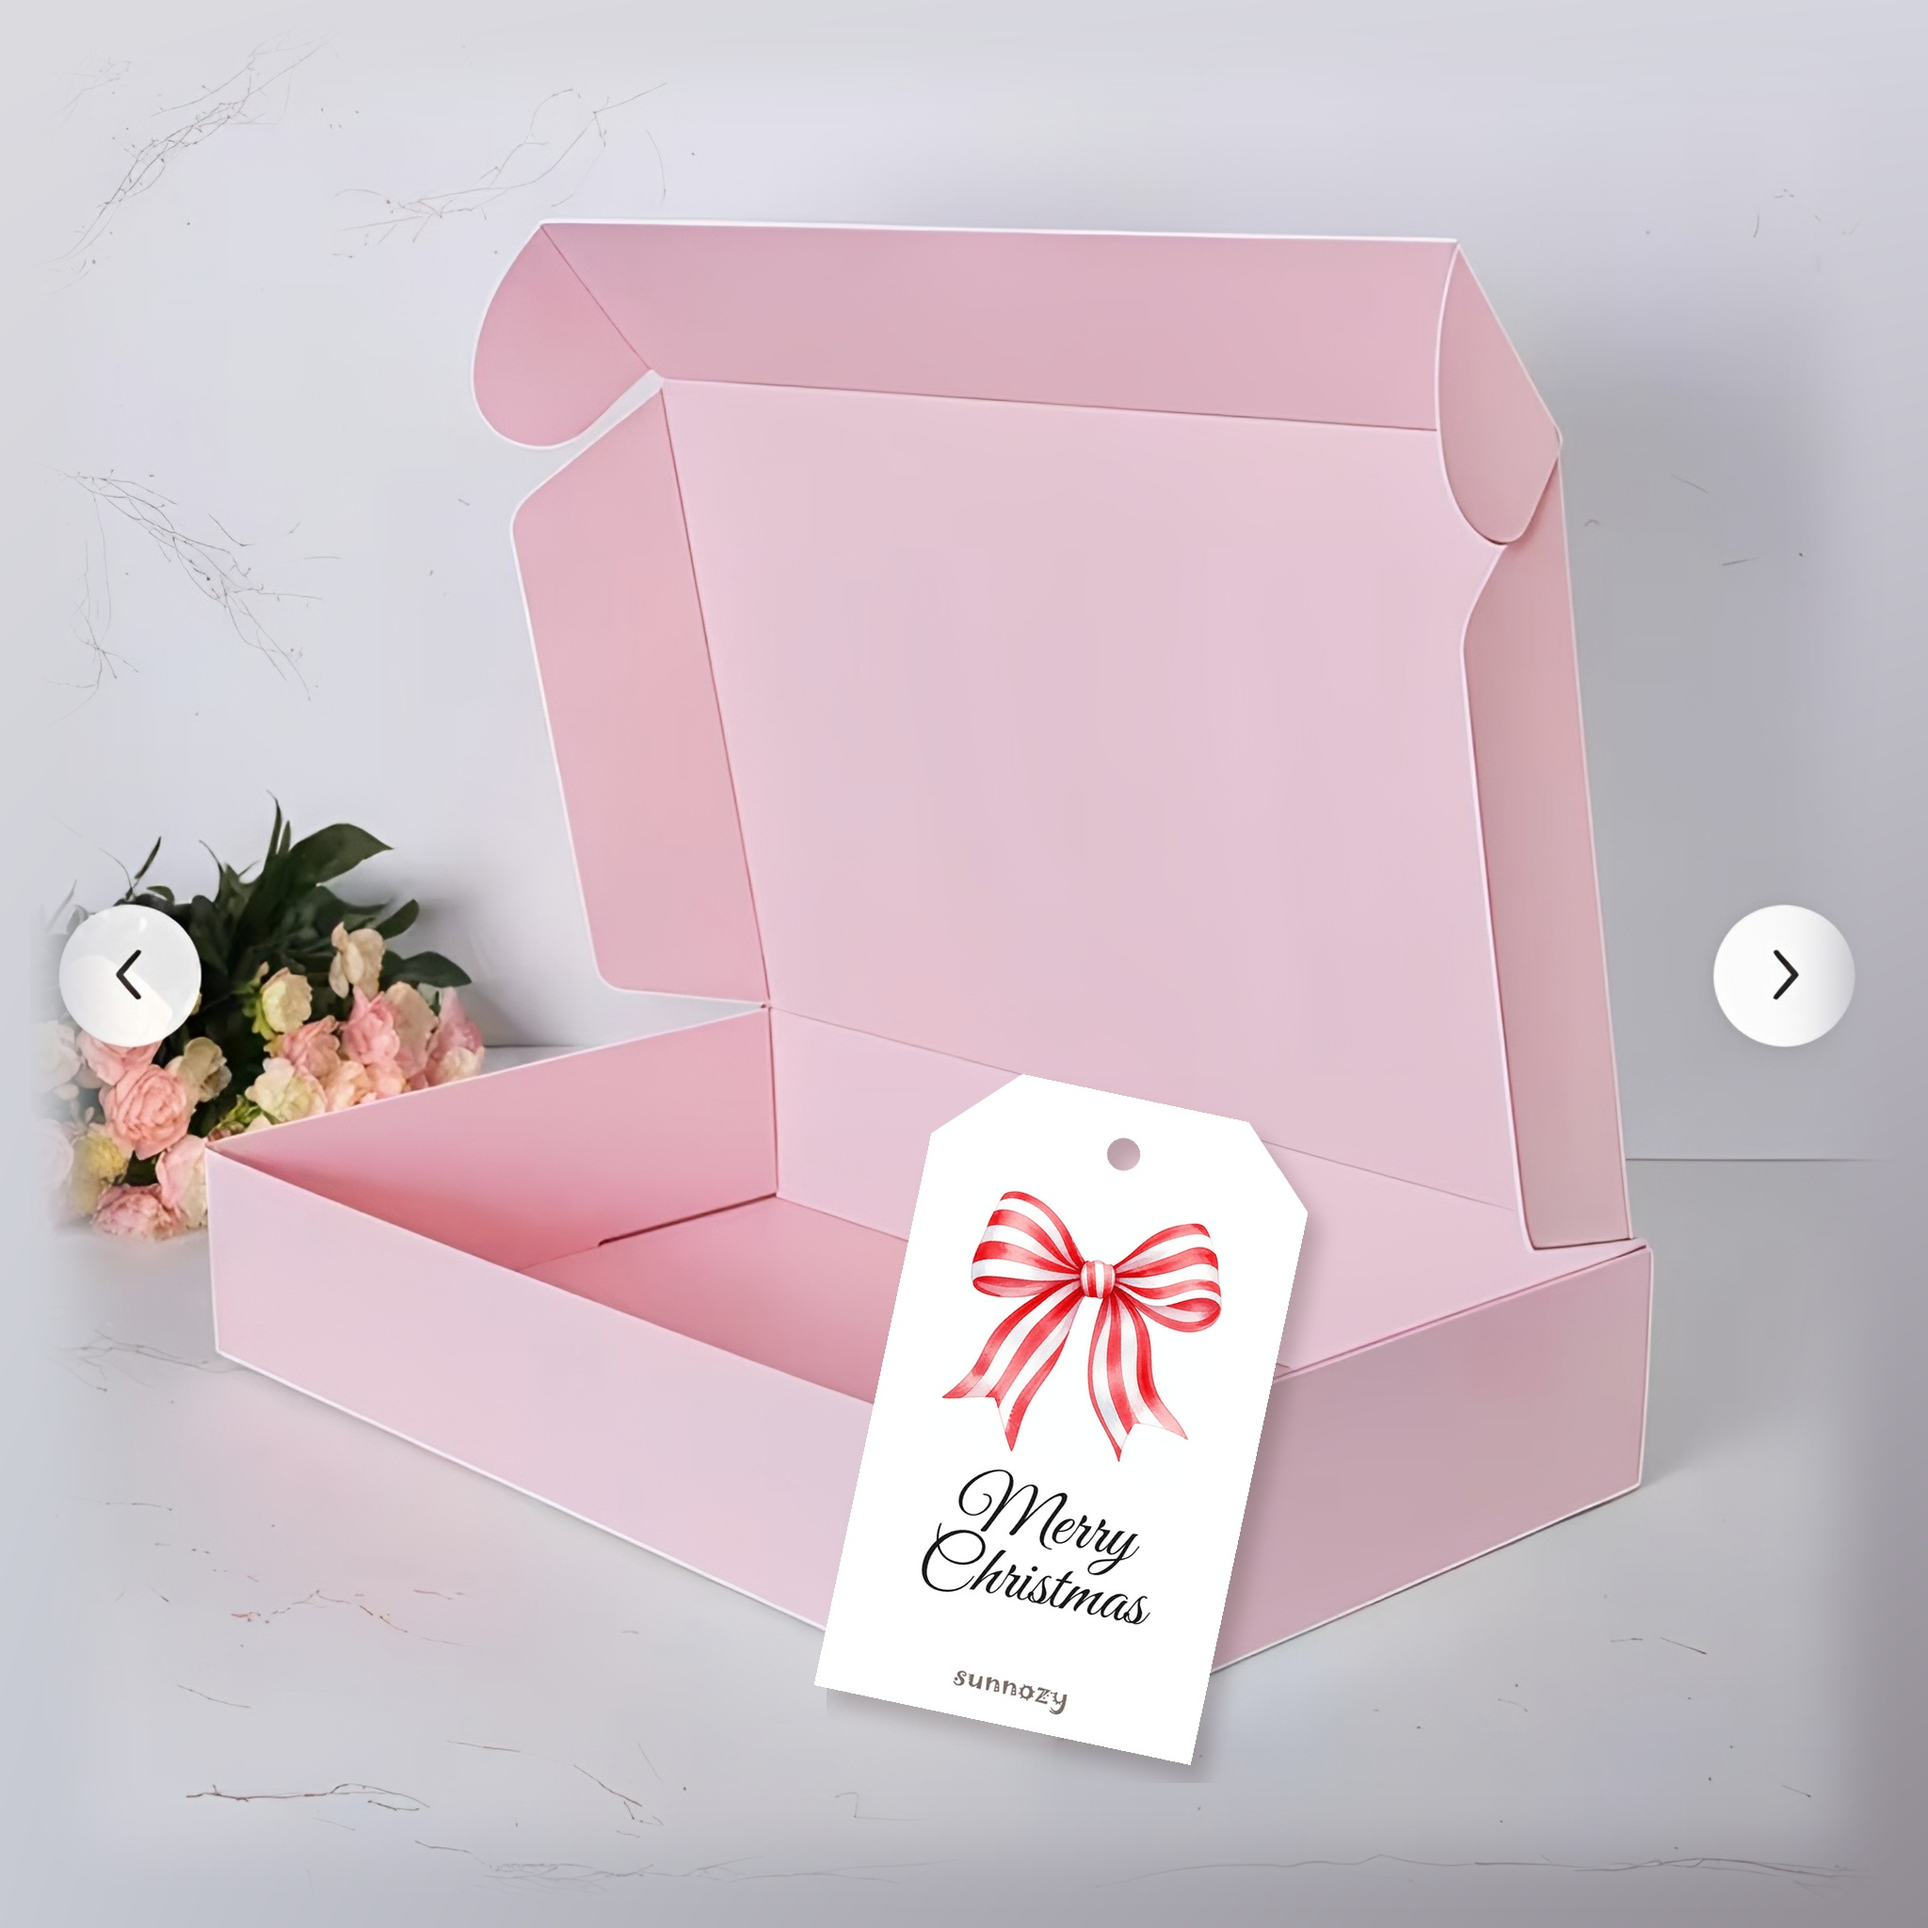
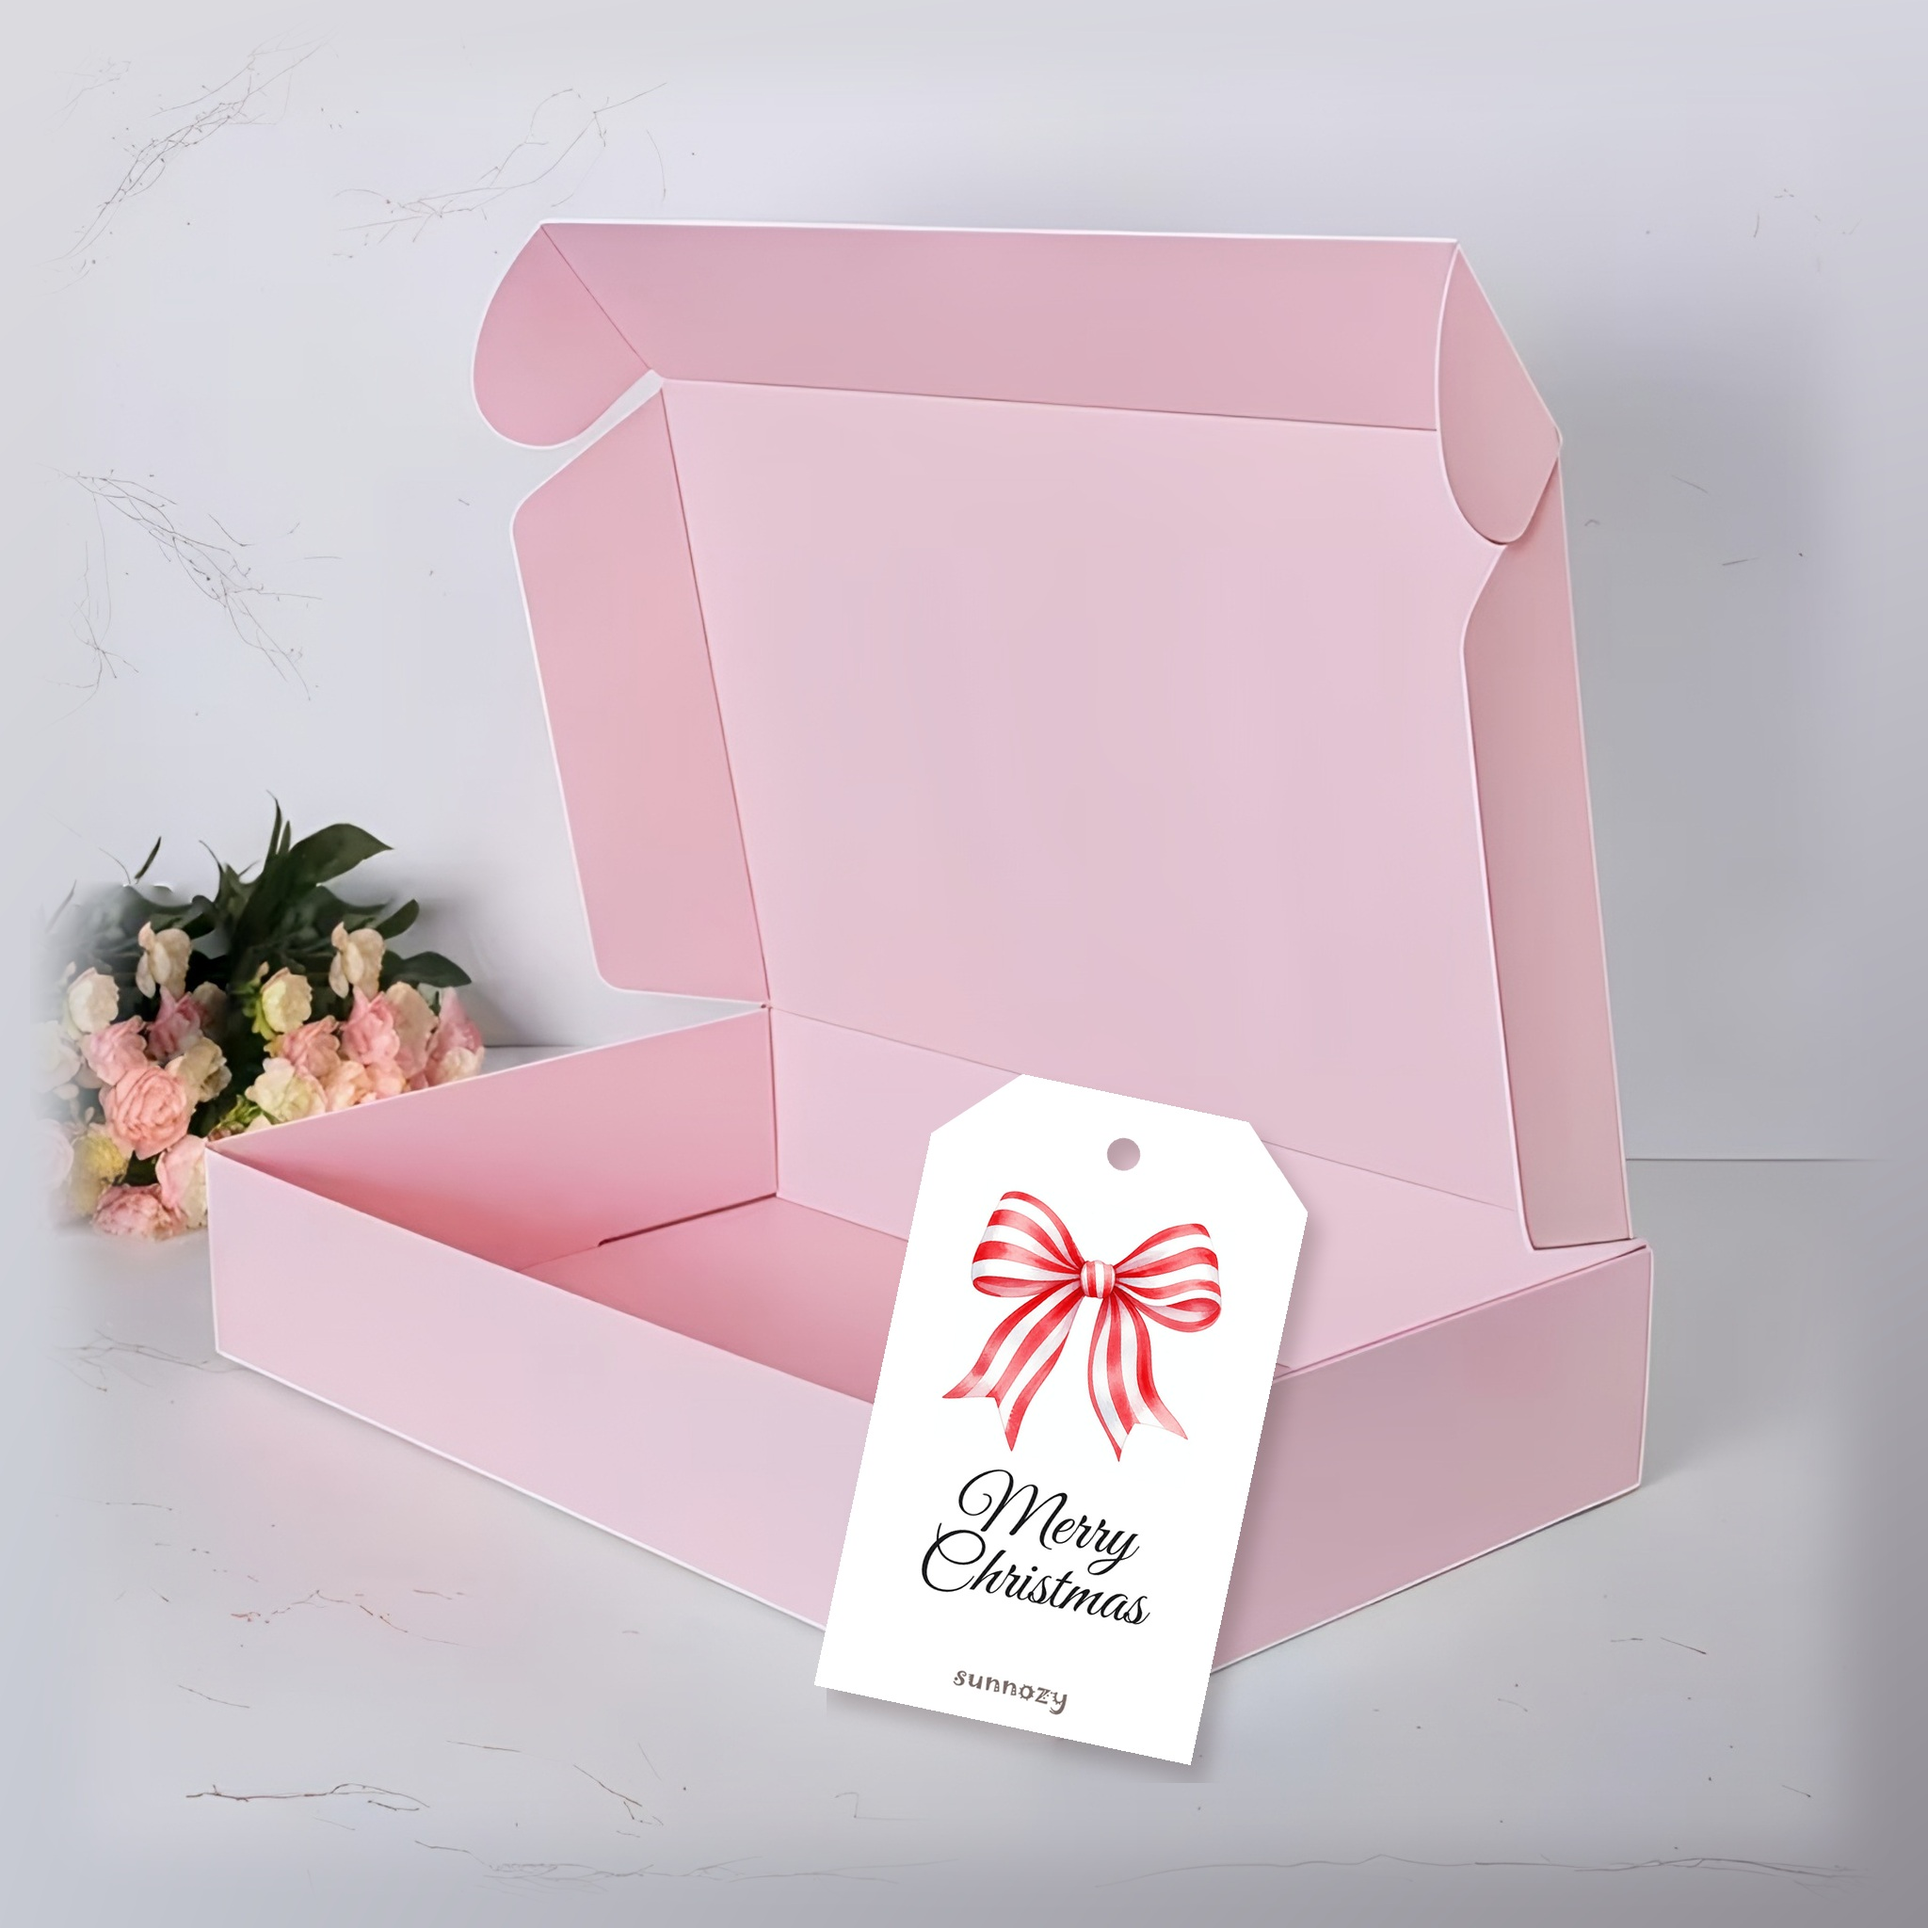
Meta-Anzeigen für Geschenkboxen (Karussell 1:1, Feed 4:5, Story 9:16, personalisiert, Übersicht), Pfeile aus Box-Vorlage entfernt
Claude-Session: https://claude.ai/code/session_017FbuTUxRHbirmjEh3Wq6r8

Changed region(s): [[0.0312, 0.4375, 0.125, 0.5625], [0.875, 0.4688, 0.9688, 0.5625]]

diff --git a/sunnozy-content/tools/make_meta_ads_geschenkbox.py b/sunnozy-content/tools/make_meta_ads_geschenkbox.py
@@ -1,0 +1,143 @@
+"""Meta-Anzeigen (Facebook/Instagram) fuer die Weihnachts-Geschenkboxen, im Stil der Set-Anzeigen (`make_meta_ads.py`).
+
+Je Box: Karussell-Karte 1:1 (Foto links, rechts schmales Feld mit Logo senkrecht, «FERTIG VERPACKT», «mit
+Weihnachtskarte», unten Versandversprechen), Feed 4:5 und Story 9:16 (Foto oben, Feld unten). Oben links das
+schwarze Preis-Etikett. Dazu die personalisierte Box («Stell Deine Box selbst zusammen», Etikett «Box + CHF 15»)
+und eine Uebersicht aller Boxen als Einstieg ins Karussell.
+Fotos: `posts/kampagne-weihnachtsbox/fotos` (Real-ESRGAN, 2272 px), personalisierte Box: `personalisiert/`.
+
+Aufruf: python3 make_meta_ads_geschenkbox.py <kampagnen-ordner>
+"""
+import os, sys
+import numpy as np
+from PIL import Image, ImageDraw, ImageFont, ImageFilter
+
+camp = sys.argv[1]
+out = os.path.join(camp, 'meta-ads')
+os.makedirs(out, exist_ok=True)
+ROOT = os.path.dirname(os.path.dirname(os.path.abspath(__file__)))
+INTER = '/usr/share/fonts/opentype/inter/Inter-{}.otf'
+FR = lambda s: ImageFont.truetype(os.path.join(ROOT, 'fonts', 'fraunces-600.ttf'), int(s))
+IN = lambda w, s: ImageFont.truetype(INTER.format(w), int(s))
+PANEL, INK, GRAU, WALD = (240, 226, 224), (17, 17, 17), (110, 106, 101), (35, 48, 41)
+
+# (Datei, Name, Inhalt, Preis)
+BOXEN = [('box_mum_dad_me', 'Mum Dad Me', '5 Bodys + 5 Leggings', '42.90'),
+         ('box_lovely_little_girl', 'Lovely Little Girl', '3 Bodys + 5 Leggings', '39.90'),
+         ('box_growing_up_strong', 'Growing up strong', '5 Bodys + 5 Jogginghosen', '42.90'),
+         ('box_i_love_my_mummy', 'I love my Mummy', '3 Bodys + 3 Halstücher', '29.90'),
+         ('box_dino', 'Dino', '3 Bodys + 3 Mulltücher', '39.90'),
+         ('box_dinosaur', 'Dinosaur', '5 Bodys + 5 Jogginghosen', '42.90'),
+         ('box_little_one', 'Little One', '5 Bodys + 3 Mulltücher', '44.90'),
+         ('box_i_like_flying', 'I like flying', '3 Bodys + 5 Leggings', '39.90')]
+
+
+def load_logo(width, col=INK):
+    a = np.asarray(Image.open(os.path.join(ROOT, 'logo-sunnozy.webp')).convert('RGB')).astype(float)
+    al = np.clip((255 - a.min(axis=2)) / 255 * 1.2, 0, 1); al[al < 0.08] = 0
+    L = Image.new('RGBA', (a.shape[1], a.shape[0]), col + (0,)); L.putalpha(Image.fromarray((al * 255).astype(np.uint8)))
+    L = L.crop(L.getbbox())
+    return L.resize((width, round(L.height * width / L.width)), Image.LANCZOS)
+
+
+def flaeche(im, W, H, foto=True):
+    """Foto auf W x H einpassen (ganz sichtbar), Rest mit weichem Verlauf aus den Bildecken, Kanten eingeblendet."""
+    a = np.asarray(im).astype(float); k = 40
+    e = [np.median(a[:k, :k].reshape(-1, 3), 0), np.median(a[:k, -k:].reshape(-1, 3), 0),
+         np.median(a[-k:, :k].reshape(-1, 3), 0), np.median(a[-k:, -k:].reshape(-1, 3), 0)]
+    ty, tx = np.linspace(0, 1, H)[:, None, None], np.linspace(0, 1, W)[None, :, None]
+    g = (e[0] * (1 - tx) + e[1] * tx) * (1 - ty) + (e[2] * (1 - tx) + e[3] * tx) * ty
+    c = Image.fromarray(np.clip(g, 0, 255).astype(np.uint8))
+    if not foto:
+        return c
+    s = min(W / im.width, H / im.height); t = im.resize((round(im.width * s), round(im.height * s)), Image.LANCZOS)
+    f = max(12, int(min(t.size) * 0.035))
+    m = Image.new('L', t.size, 0); ImageDraw.Draw(m).rectangle([f, f, t.width - f, t.height - f], fill=255)
+    c.paste(t, ((W - t.width) // 2, (H - t.height) // 2), m.filter(ImageFilter.GaussianBlur(f / 2)))
+    return c
+
+
+def badge(c, xy, text, k=1.0):
+    d = ImageDraw.Draw(c); f = IN('SemiBold', 44 * k)
+    w = d.textlength(text, font=f); x, y = xy; h = 76 * k; pw = 26 * k
+    d.rounded_rectangle([x, y, x + w + 2 * pw, y + h], radius=14 * k, fill=INK)
+    d.text((x + pw, y + h / 2 + 2 * k), text, font=f, fill='white', anchor='lm')
+
+
+def panel(c, x0, x1, y0, y1, zeilen=('FERTIG', 'VERPACKT'), klein='mit Weihnachtskarte'):
+    d = ImageDraw.Draw(c); d.rectangle([x0, y0, x1, y1], fill=PANEL); pw = x1 - x0
+    lg = load_logo(int((y1 - y0) * 0.46)).rotate(-90, expand=True)
+    if lg.width > pw * 0.6:
+        s = pw * 0.6 / lg.width; lg = lg.resize((round(lg.width * s), round(lg.height * s)), Image.LANCZOS)
+    ly = y0 + int((y1 - y0) * 0.06); c.paste(lg, (int(x0 + (pw - lg.width) / 2), ly), lg)
+    ty = ly + lg.height + (y1 - y0) * 0.06
+    for z in zeilen:
+        d.text((x0 + pw / 2, ty), z, font=IN('Bold', 31), fill=INK, anchor='mt'); ty += 38
+    d.text((x0 + pw / 2, ty + 8), klein, font=IN('Regular', 21), fill=GRAU, anchor='mt')
+    d.text((x0 + pw / 2, y1 - (y1 - y0) * 0.1), 'GRATISVERSAND', font=IN('Bold', 22), fill=INK, anchor='mm')
+    d.text((x0 + pw / 2, y1 - (y1 - y0) * 0.1 + 30), 'ab CHF 50', font=IN('Regular', 21), fill=GRAU, anchor='mm')
+
+
+def band(c, y0, W, H, titel, unter):
+    d = ImageDraw.Draw(c); d.rectangle([0, y0, W, H], fill=PANEL)
+    lg = load_logo(230); c.paste(lg, ((W - lg.width) // 2, y0 + 30), lg)
+    ty = y0 + 30 + lg.height + 26
+    d.text((W / 2, ty), titel, font=FR(42), fill=WALD, anchor='mt')
+    d.text((W / 2, ty + 58), unter, font=IN('Regular', 26), fill=GRAU, anchor='mt')
+    d.text((W / 2, H - 34), 'GRATISVERSAND AB CHF 50  ·  VERSAND IN 1–2 WERKTAGEN', font=IN('Bold', 22), fill=INK, anchor='ms')
+
+
+def karte(im, preis, **kw):
+    W = H = 1080; split = 760
+    c = Image.new('RGB', (W, H)); c.paste(flaeche(im, split, H), (0, 0))
+    panel(c, split, W, 0, H, **kw); badge(c, (30, 28), preis)
+    return c
+
+
+def feed(im, preis, titel, unter):
+    W, H = 1080, 1350; bh = 290
+    c = Image.new('RGB', (W, H)); c.paste(flaeche(im, W, H - bh), (0, 0))
+    band(c, H - bh, W, H, titel, unter); badge(c, (36, 32), preis)
+    return c
+
+
+def story(im, preis, titel, unter):
+    """9:16: oben 14 % frei (Instagram-Bedienelemente), Feld unten ab ca. 82 %."""
+    W, H = 1080, 1920; top, bh = 250, 330
+    c = Image.new('RGB', (W, H)); c.paste(flaeche(im, W, H - bh, foto=False), (0, 0))
+    c.paste(flaeche(im, W, H - top - bh), (0, top))
+    band(c, H - bh, W, H, titel, unter); badge(c, (40, top + 30), preis, 1.05)
+    d = ImageDraw.Draw(c)
+    d.text((W / 2, 175), 'Weihnachts-Geschenkbox', font=FR(52), fill=WALD, anchor='ms')
+    return c
+
+
+def uebersicht(W=1080, H=1080):
+    """Einstiegskarte fuers Karussell: 2 x 2 Boxen, Titel oben."""
+    c = Image.new('RGB', (W, H), (246, 241, 238)); d = ImageDraw.Draw(c)
+    d.text((W / 2, 78), 'Weihnachts-Geschenkboxen', font=FR(54), fill=WALD, anchor='ms')
+    d.text((W / 2, 122), 'Ganze Sets · von Hand verpackt · mit Karte', font=IN('Regular', 26), fill=GRAU, anchor='ms')
+    g, oben = 14, 150; kw = (W - 3 * g) // 2; kh = (H - oben - 3 * g - 60) // 2
+    for i, n in enumerate(['box_mum_dad_me', 'box_dinosaur', 'box_lovely_little_girl', 'box_little_one']):
+        im = Image.open(os.path.join(camp, 'fotos', n + '.jpg')).convert('RGB')
+        s = kw / im.width; im = im.resize((kw, round(im.height * s)), Image.LANCZOS)
+        oy = (im.height - kh) // 2
+        c.paste(im.crop((0, oy, kw, oy + kh)), (g + (i % 2) * (kw + g), oben + (i // 2) * (kh + g)))
+    d.text((W / 2, H - 26), 'ab CHF 29.90  ·  GRATISVERSAND AB CHF 50', font=IN('Bold', 26), fill=INK, anchor='ms')
+    return c
+
+
+if __name__ == '__main__':
+    for n, name, inhalt, preis in BOXEN:
+        im = Image.open(os.path.join(camp, 'fotos', n + '.jpg')).convert('RGB')
+        k = n[4:]
+        karte(im, f'CHF {preis}').save(os.path.join(out, f'karussell_{k}_1x1.jpg'), quality=94)
+        feed(im, f'CHF {preis}', f'Geschenkbox «{name}»', f'{inhalt}  ·  fertig verpackt mit Karte').save(os.path.join(out, f'feed_{k}_4x5.jpg'), quality=94)
+        story(im, f'CHF {preis}', f'Geschenkbox «{name}»', f'{inhalt}  ·  mit Weihnachtskarte').save(os.path.join(out, f'story_{k}_9x16.jpg'), quality=94)
+        print(k)
+    pim = Image.open(os.path.join(camp, 'personalisiert', 'geschenkbox-personalisiert.jpg')).convert('RGB')
+    karte(pim, 'Box + CHF 15', zeilen=('DEINE', 'AUSWAHL'), klein='Name + Wunschtext').save(os.path.join(out, 'karussell_personalisiert_1x1.jpg'), quality=94)
+    feed(pim, 'Box + CHF 15', 'Stell Deine Box selbst zusammen', 'Sets wählen · Name & Wunschtext auf der Karte').save(os.path.join(out, 'feed_personalisiert_4x5.jpg'), quality=94)
+    story(pim, 'Box + CHF 15', 'Stell Deine Box selbst zusammen', 'Sets wählen · Name & Wunschtext').save(os.path.join(out, 'story_personalisiert_9x16.jpg'), quality=94)
+    uebersicht().save(os.path.join(out, 'karussell_00_uebersicht_1x1.jpg'), quality=94)
+    print('fertig')

diff --git a/sunnozy-content/posts/kampagne-weihnachtsbox/README.md b/sunnozy-content/posts/kampagne-weihnachtsbox/README.md
@@ -55,19 +55,35 @@ Neu erzeugen:
 
 ## Meta-Anzeigen
 
-**Kampagne:** «Das schönste Hallo – Weihnachten», Ziel Umsatz, ab Anfang November bis zum letzten Bestelltermin, CHF 5–10/Tag zusätzlich zu «Alles drin». Advantage+-Zielgruppe, Schweiz, Vorschlag 25–65.
-**Anzeige A:** Karussell mit den 8 Boxen (`1x1/`), Link je Karte auf das Produkt.
-**Anzeige B:** Einzelbild «Mum Dad Me» oder «Dino» (`4x5/` + `9x16/`).
-**Anzeige C:** Übersicht `4x5/alle_boxen_4x5.jpg`, Link auf eine Kollektion «Weihnachts-Geschenkboxen».
+Bilder: `meta-ads/` (erzeugt mit `python3 tools/make_meta_ads_geschenkbox.py posts/kampagne-weihnachtsbox`), Stil wie die
+Set-Anzeigen: Preis-Etikett oben links, sunnozy-Feld, Gratisversand ab CHF 50. Fotos scharf (Real-ESRGAN, 2272 px).
+
+| Datei | Format | Einsatz |
+|---|---|---|
+| `karussell_00_uebersicht_1x1.jpg` | 1:1 | erste Karte im Karussell, Link `/collections/geschenkboxen` |
+| `karussell_<box>_1x1.jpg` (8) | 1:1 | Karussell-Karten, Link aufs jeweilige Produkt |
+| `karussell_personalisiert_1x1.jpg` | 1:1 | letzte Karte, Link auf die personalisierte Box |
+| `feed_<box>_4x5.jpg` (8 + personalisiert) | 4:5 | Einzelbild-Anzeigen im Feed |
+| `story_<box>_9x16.jpg` (8 + personalisiert) | 9:16 | Stories/Reels (oben 14 % und unten frei für Instagram) |
+
+**Kampagne:** «Das schönste Hallo – Weihnachten», Ziel Umsatz, Anfang November bis letzter Bestelltermin (ca. 18.12.),
+CHF 5–10/Tag. Advantage+-Zielgruppe, Schweiz, 25–65. Placements Advantage+ (Feed 4:5, Stories 9:16 automatisch).
+
+**Anzeige A – Karussell:** Übersicht → 8 Boxen → personalisierte Box. Karten-Überschrift = Boxname, Beschreibung = Preis.
+**Anzeige B – Einzelbilder:** «Mum Dad Me», «Dinosaur», «Little One» (4:5 + 9:16), die drei stärksten Motive testen.
+**Anzeige C – Personalisiert:** `feed_personalisiert_4x5.jpg` + `story_personalisiert_9x16.jpg`.
 
 **Primärtext (Varianten):**
-> Das schönste Hallo unterm Baum. Ganze Sets aus weicher Baumwolle, von Hand verpackt, mit Weihnachtskarte. Fürs Gottikind, Grosskind und alle Kleinen.
+> Das schönste Hallo unterm Baum 🎁 Ganze Sets aus weicher Baumwolle, von Hand in die rosa Box gepackt – mit Weihnachtskarte. Fürs Gottikind, Grosskind und alle Kleinen. Ab CHF 29.90.
 
-> Noch kein Geschenk fürs Gottikind? Unsere Weihnachts-Geschenkboxen sind fertig verpackt und in 2–3 Werktagen bei Dir. Ab CHF 29.90.
+> Noch kein Geschenk fürs Gottikind? Unsere Weihnachts-Geschenkboxen kommen fertig verpackt, mit Karte, in 1–2 Werktagen. Gratisversand ab CHF 50.
+
+> Stell Deine eigene Geschenkbox zusammen: Sets wählen, Grösse wählen, Name und Wunschtext auf die Karte – wir packen alles liebevoll ein. Box, Karte und Einpacken CHF 15.
 
 > Zwei Gottikinder? Mit zwei Boxen ist der Versand gratis.
 
-**Überschrift:** «Weihnachts-Geschenkbox «Name»» · **Beschreibung:** «Fertig verpackt, mit Karte» · **Button:** «Jetzt einkaufen»
+**Überschriften:** «Weihnachts-Geschenkbox «Name»» · «Fertig verpackt mit Karte» · «Deine Box, Dein Gruss» (personalisiert)
+**Beschreibung:** «Ganze Sets · Gratisversand ab CHF 50» · **Button:** «Jetzt einkaufen»
 
 ## Vor dem Freischalten prüfen
 
